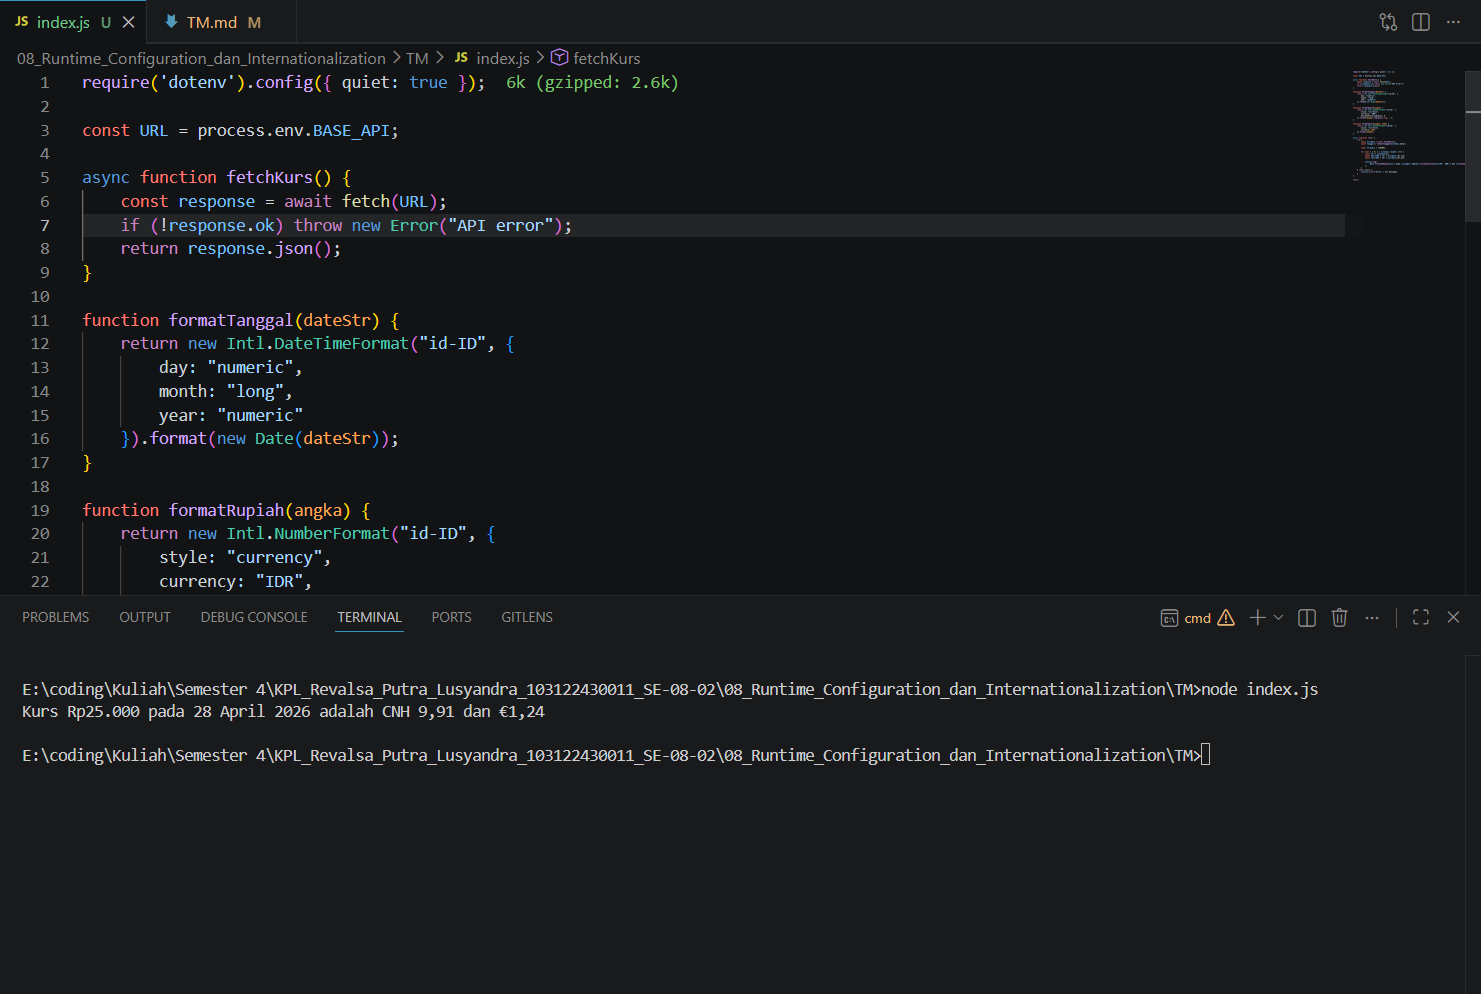
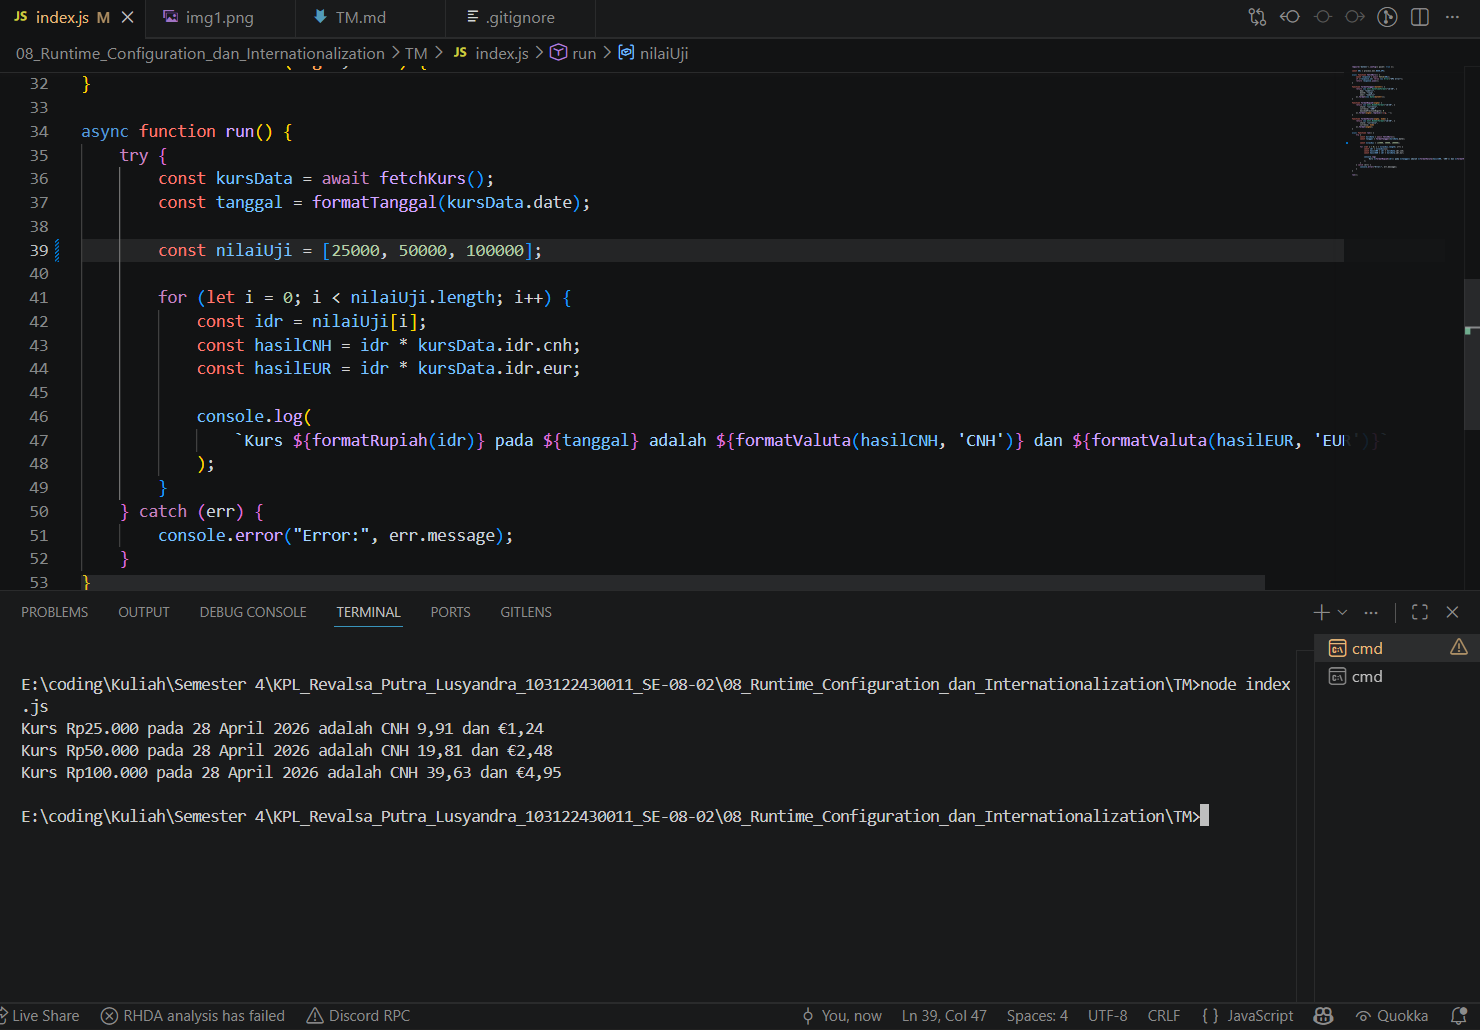
upload TM & GUIDED 08

diff --git a/08_Runtime_Configuration_dan_Internationalization/TM/index.js b/08_Runtime_Configuration_dan_Internationalization/TM/index.js
@@ -36,7 +36,7 @@ async function run() {
         const kursData = await fetchKurs();
         const tanggal = formatTanggal(kursData.date);
 
-        const nilaiUji = [25000];
+        const nilaiUji = [25000, 50000, 100000];
 
         for (let i = 0; i < nilaiUji.length; i++) {
             const idr = nilaiUji[i];
